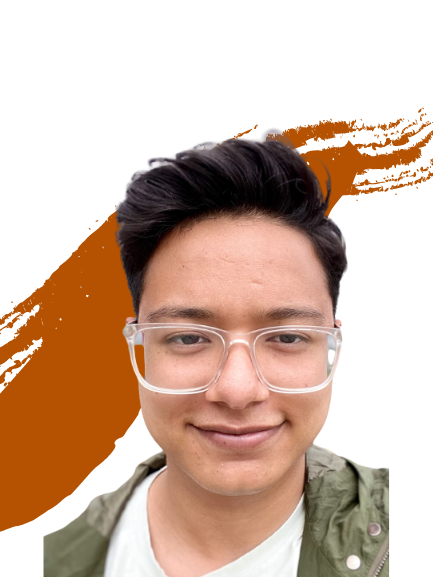
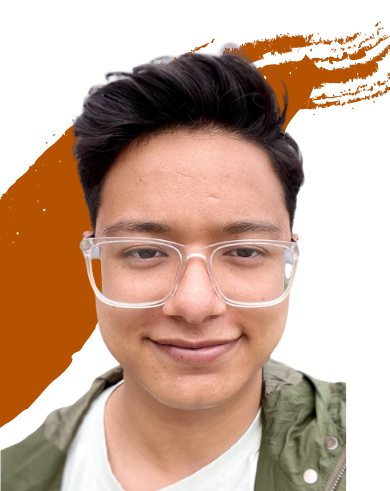
Picture dimensions

diff --git a/index.html b/index.html
@@ -7,7 +7,7 @@ title: Sloke Shrestha
 <div>
     <div>
         <p>
-            <span> <img style="float: left; height: 20%; width: 45%; margin-right: 2em"
+            <span> <img style="float: left; height: 45%; width: 45%; margin-right: 2em"
         src="/assets/img/sloke_pic_2.png"> 
         </span>
         </p>
